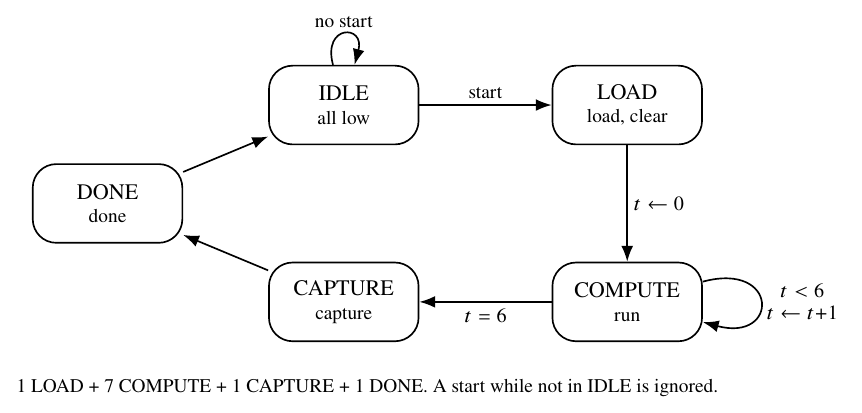
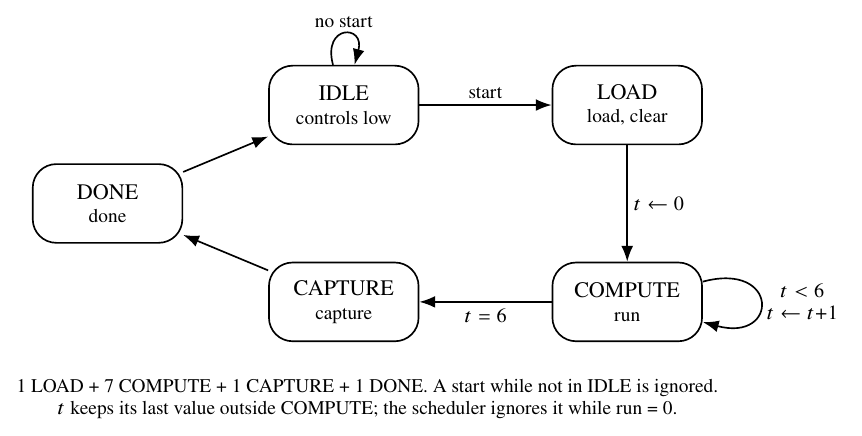
FSM figure: t keeps its value outside COMPUTE

diff --git a/docs/figures/fig_fsm.tex b/docs/figures/fig_fsm.tex
@@ -5,7 +5,7 @@
     tr/.style={->, line width=0.6pt},
     lab/.style={font=\scriptsize, inner sep=2pt, align=center}]
 
-  \node[st] (idle) at (0,0)      {IDLE\\[-1pt]{\scriptsize all low}};
+  \node[st] (idle) at (0,0)      {IDLE\\[-1pt]{\scriptsize controls low}};
   \node[st] (load) at (3.6,0)    {LOAD\\[-1pt]{\scriptsize load, clear}};
   \node[st] (comp) at (3.6,-2.5) {COMPUTE\\[-1pt]{\scriptsize run}};
   \node[st] (cap)  at (0,-2.5)   {CAPTURE\\[-1pt]{\scriptsize capture}};
@@ -20,5 +20,5 @@
   \draw[tr] (idle) edge[loop above, looseness=5] node[lab, above] {no start} (idle);
 
   \node[lab, anchor=north] at (0.3,-3.4)
-    {1 LOAD + 7 COMPUTE + 1 CAPTURE + 1 DONE. A start while not in IDLE is ignored.};
+    {1 LOAD + 7 COMPUTE + 1 CAPTURE + 1 DONE. A start while not in IDLE is ignored.\\$t$ keeps its last value outside COMPUTE; the scheduler ignores it while run = 0.};
 \end{tikzpicture}
